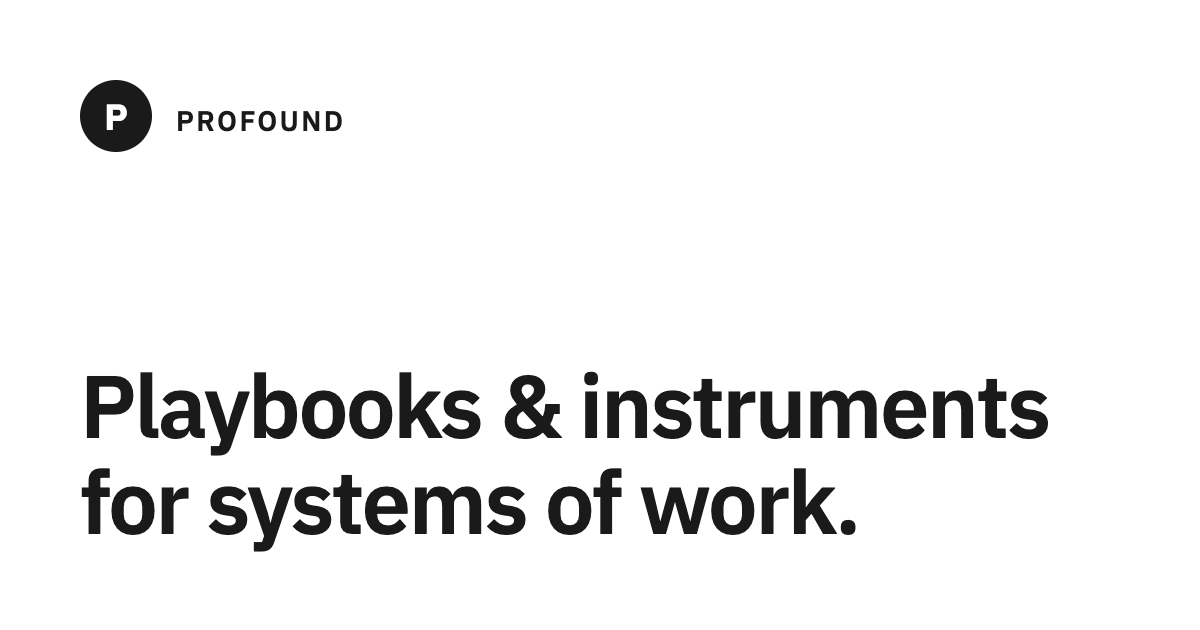
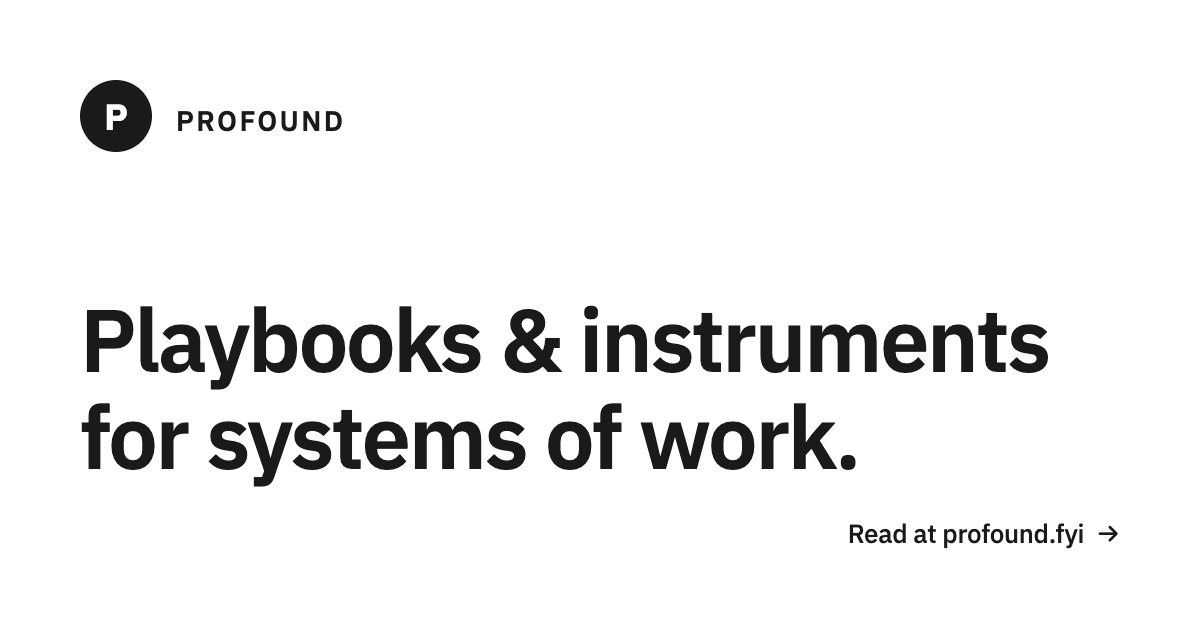
feat(og): add CTA to OG image
The OG validator flagged "missing call-to-action in your image".
For a content site this is editorial rather than technical, but
adding a soft CTA is low-cost and gives viewers a clear next step
when they see the link preview in their feed.

Bottom-right of the OG canvas now reads "Read at profound.fyi →"
in 26px medium weight, sitting beneath the hero headline. Small
enough not to overpower the typography, large enough to be
legible in feed thumbnails.

Changed region(s): [[0.0617, 0.4825, 0.925, 0.8746]]

diff --git a/images/og-source.html b/images/og-source.html
@@ -50,6 +50,19 @@
     line-height: 1.1;
     letter-spacing: -0.025em;
   }
+  .cta {
+    margin-top: 32px;
+    display: flex;
+    justify-content: flex-end;
+    align-items: center;
+    color: #1a1a1a;
+    font-size: 26px;
+    font-weight: 500;
+    letter-spacing: -0.01em;
+  }
+  .cta-arrow {
+    margin-left: 12px;
+  }
   .heart { color: #f08800; font-style: normal; }
 </style>
 </head>
@@ -60,6 +73,7 @@
 </div>
 <div class="hero">
   <h1>Playbooks &amp; instruments<br>for systems of work.</h1>
+  <div class="cta">Read at profound.fyi <span class="cta-arrow">→</span></div>
 </div>
 </body>
 </html>
